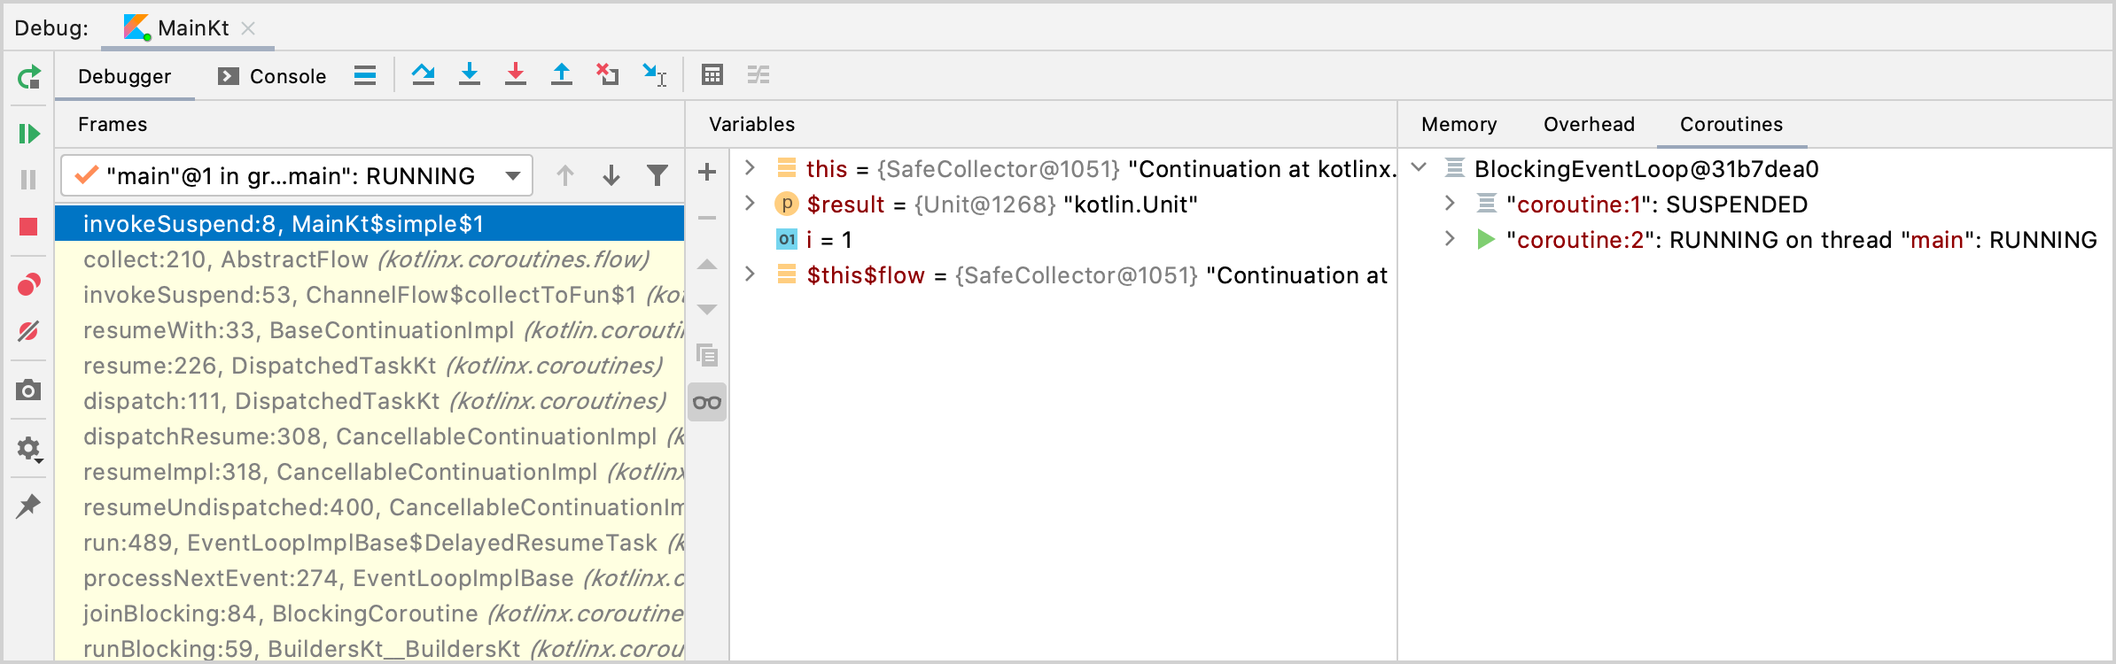
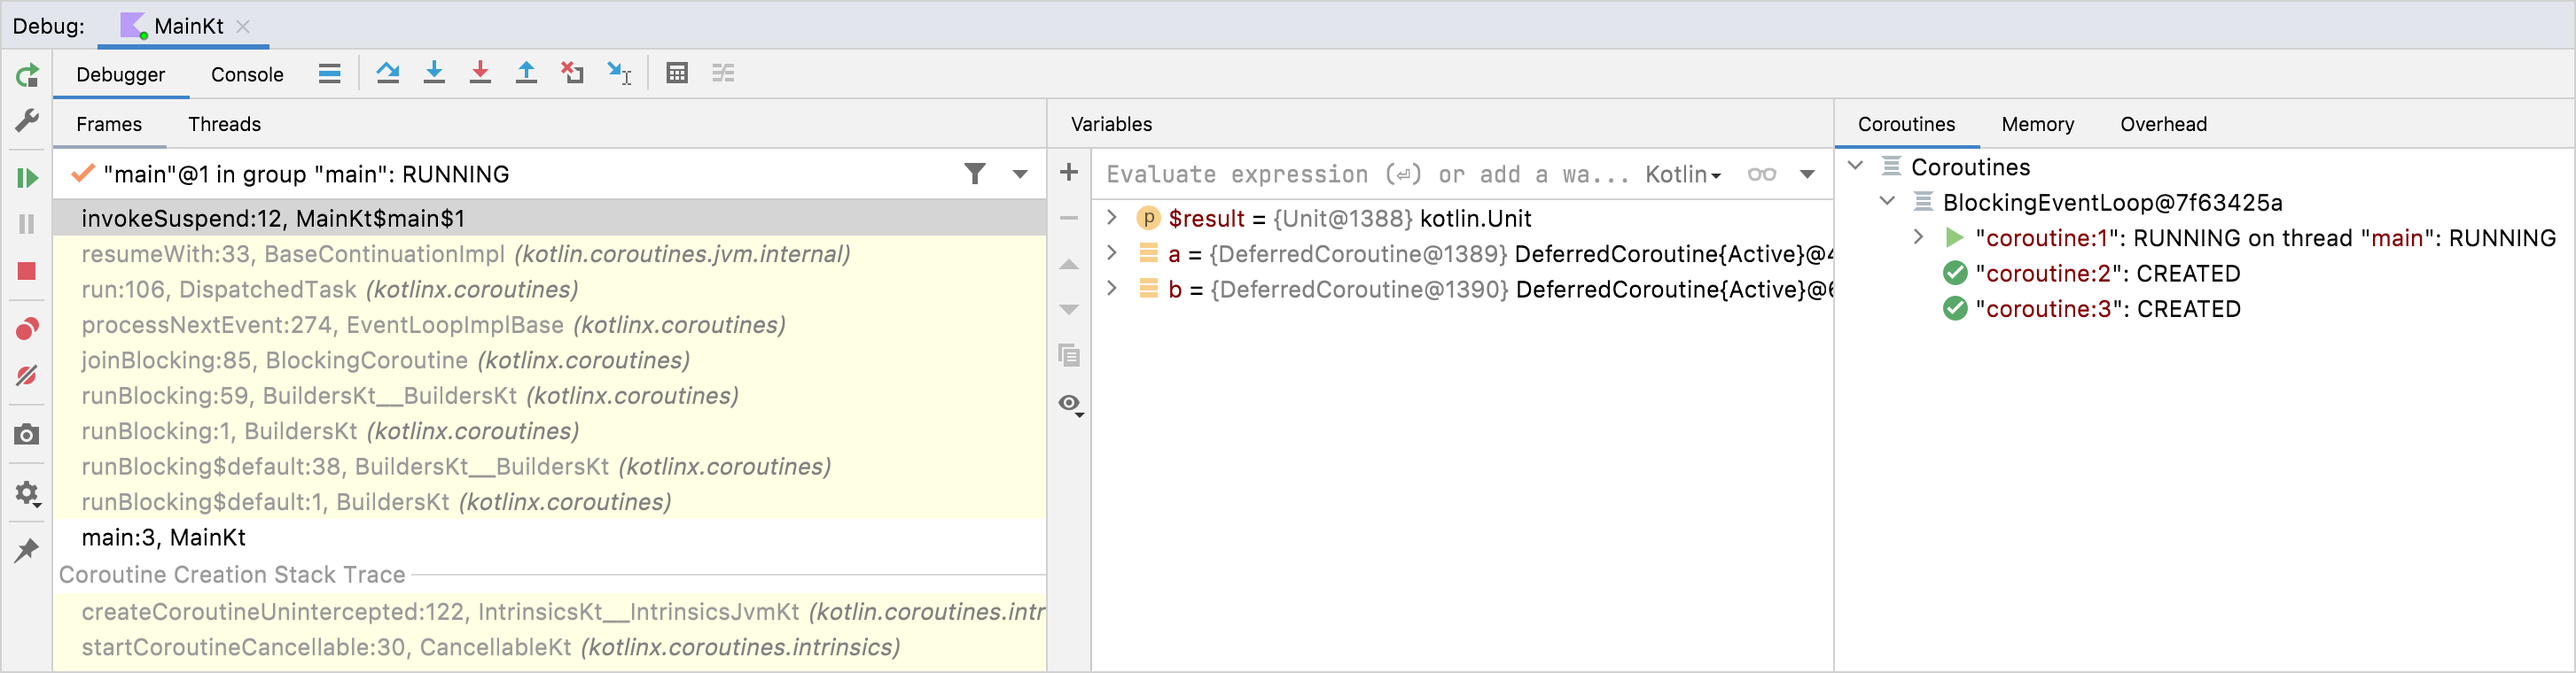
update: new screenshots and UI changes for IDEA 2021.3

Changed region(s): [[0.0, 0.0, 1.0, 1.0], [0.9916, 0.0, 1.0, 0.0307]]

diff --git a/docs/topics/debug-flow-with-idea.md b/docs/topics/debug-flow-with-idea.md
@@ -59,7 +59,7 @@ Create a Kotlin [flow](https://kotlin.github.io/kotlinx.coroutines/kotlinx-corou
 
 ## Debug the coroutine
 
-1. Set a breakpoint at the at the line where the `emit()` function is called:
+1. Set a breakpoint at the line where the `emit()` function is called:
 
     ![Build a console application](flow-breakpoint.png)
 
@@ -74,7 +74,7 @@ Create a Kotlin [flow](https://kotlin.github.io/kotlinx.coroutines/kotlinx-corou
 
     ![Debug the coroutine](flow-debug-1.png)
 
-3. Resume the debugger session by clicking **Resume program** in the **Debug** tool window. The program stops at the same breakpoint.
+3. Resume the debugger session by clicking **Resume Program** in the **Debug** tool window. The program stops at the same breakpoint.
 
     ![Debug the coroutine](flow-resume-debug.png)
 
@@ -117,7 +117,7 @@ Create a Kotlin [flow](https://kotlin.github.io/kotlinx.coroutines/kotlinx-corou
     The `buffer()` function buffers emitted values from the flow.
     The emitter coroutine has the **RUNNING** status, and the collector coroutine has the **SUSPENDED** status.
 
-2. Resume the debugger session by clicking **Resume program** in the **Debug** tool window.
+2. Resume the debugger session by clicking **Resume Program** in the **Debug** tool window.
 
     ![Debugging coroutines](flow-debug-4.png)
 

diff --git a/docs/topics/debug-coroutines-with-idea.md b/docs/topics/debug-coroutines-with-idea.md
@@ -61,7 +61,7 @@ The tutorial assumes you have prior knowledge of the [coroutines](coroutines-gui
 
     ![Debug the coroutine](coroutine-debug-1.png)
 
-3. Resume the debugger session by clicking **Resume program** in the **Debug** tool window:
+3. Resume the debugger session by clicking **Resume Program** in the **Debug** tool window:
 
     ![Debug the coroutine](coroutine-debug-2.png)
     
@@ -70,7 +70,7 @@ The tutorial assumes you have prior knowledge of the [coroutines](coroutines-gui
     * The second coroutine is calculating the `a` value – it has the **RUNNING** status.
     * The third coroutine has the **CREATED** status and isn’t calculating the value of `b`.
 
-4. Resume the debugger session by clicking **Resume program** in the **Debug** tool window:
+4. Resume the debugger session by clicking **Resume Program** in the **Debug** tool window:
 
     ![Build a console application](coroutine-debug-3.png)
 
